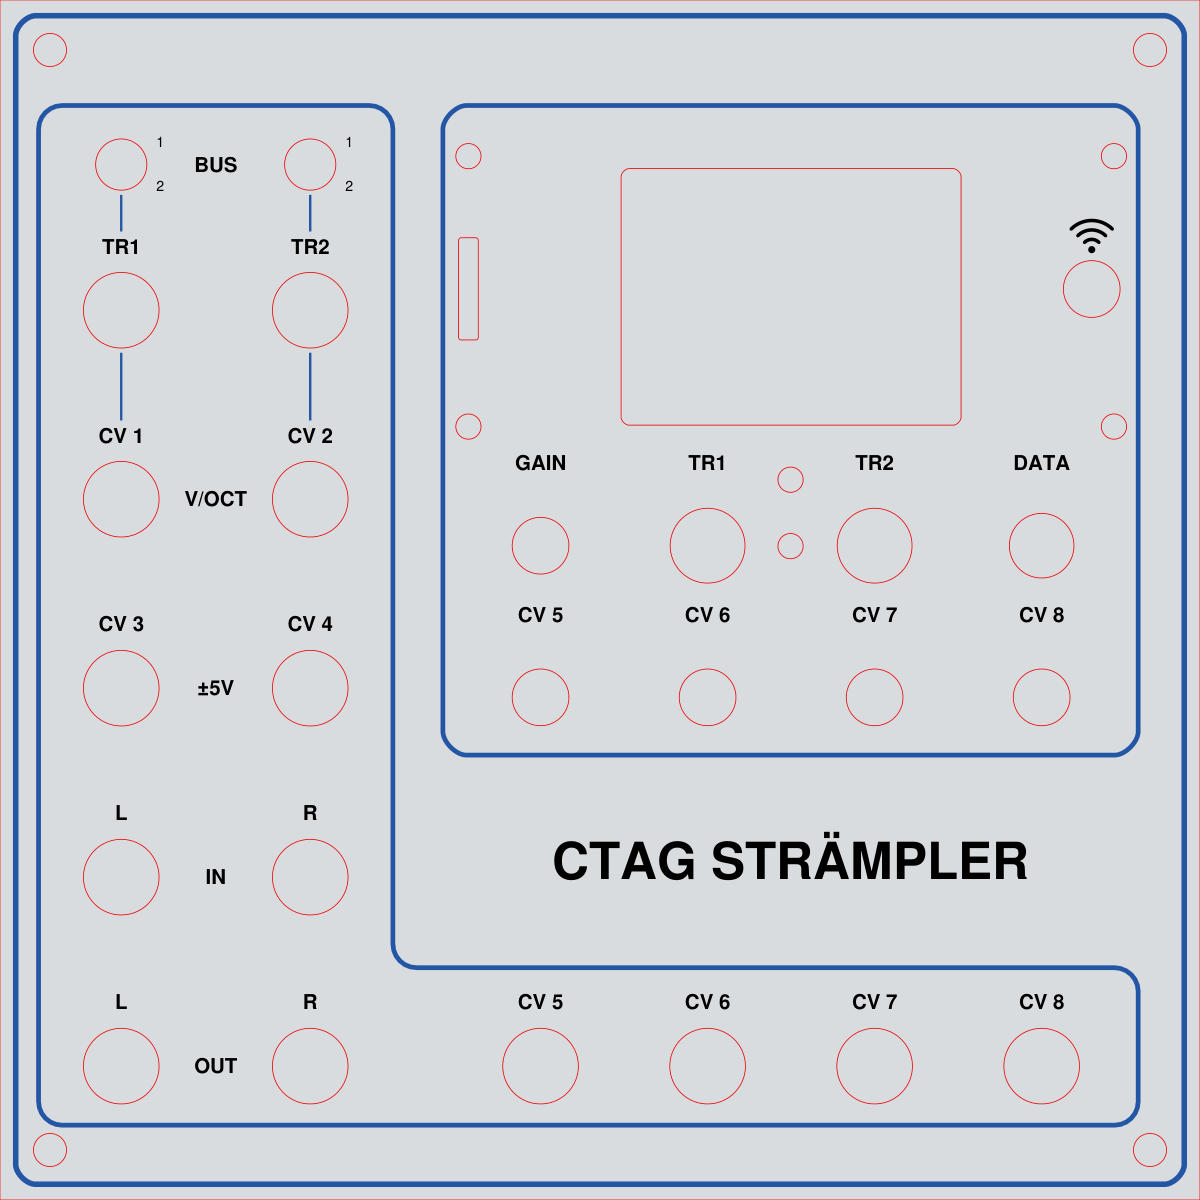
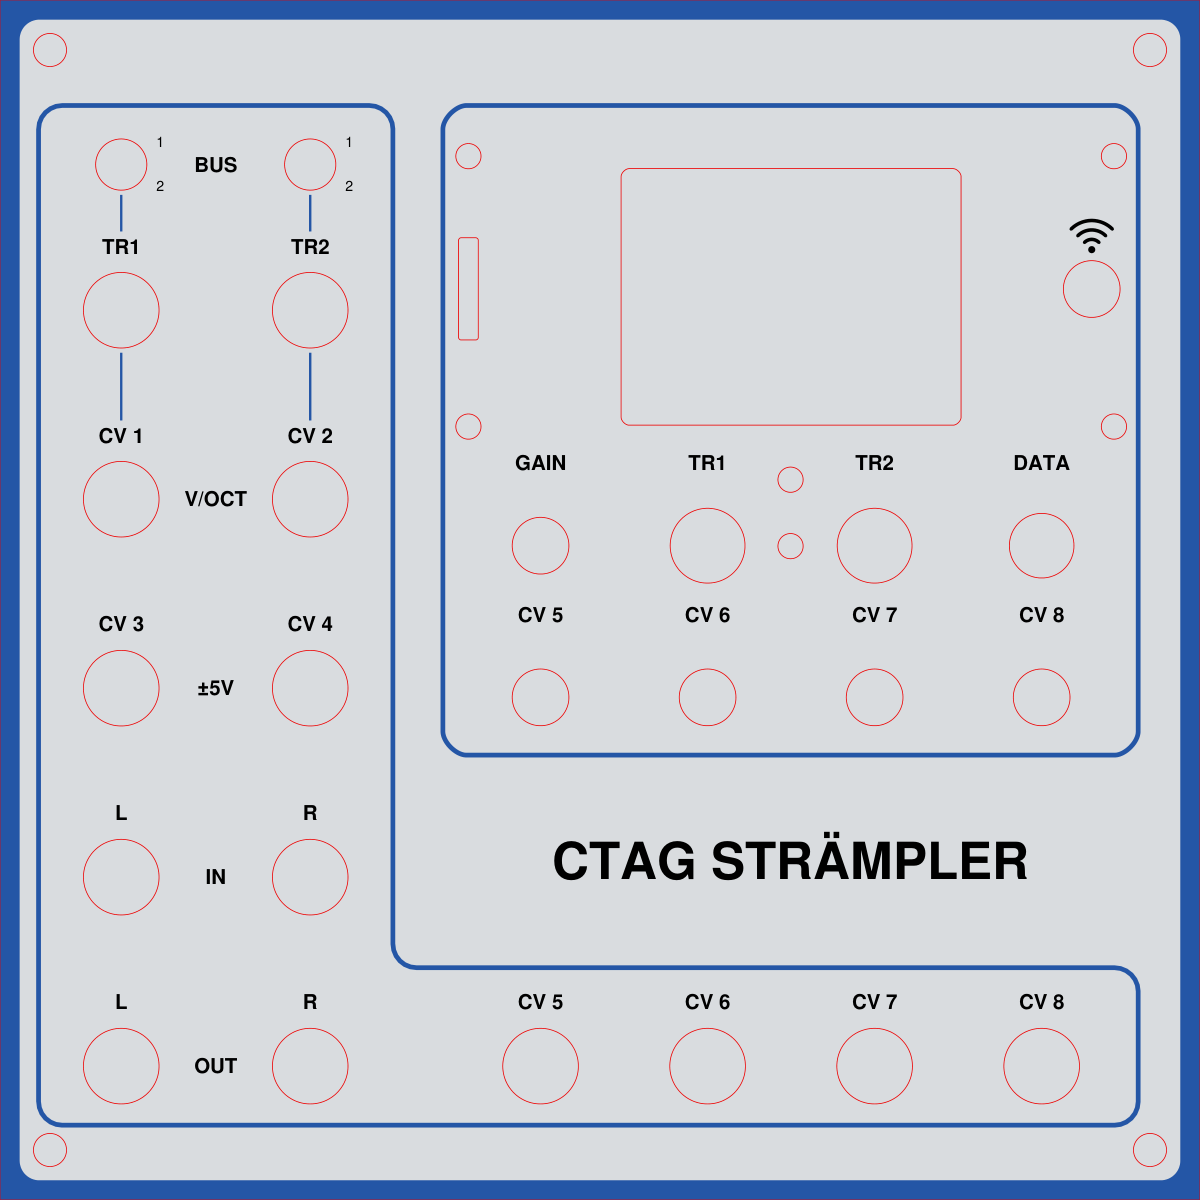
panel-emu: solid blue edge band bleeding to the panel edge
Claude-Session: https://claude.ai/code/session_01KnGMUq9B8Y9jJAKBbBJVhF

Changed region(s): [[0.0, 0.0, 1.0, 1.0]]

diff --git a/panel-emu/gen_emu_panel.py b/panel-emu/gen_emu_panel.py
@@ -206,8 +206,13 @@ fx0, fx1 = JACK_COLS[0] - 10.5, JACK_COLS[1] + 10.5
 fy0, fy1 = JACK_ROW0 - 7.5, by + 121.0   # top aligned with the interface box (padding above the top row)
 bx1, by1 = bx + 89.8, JACK_ROW0 + 12.5   # bottom row box extents (shares the left box's bottom edge)
 art_poly([(fx0, fy0), (bx1, fy0), (bx1, by1), (fx1, by1), (fx1, fy1), (fx0, fy1)], r=3.0)
-EDGE_INSET = 2.0                     # E-mu-style blue border just inside the panel edge (screw heads sit on it at the corners)
-art_box(EDGE_INSET, EDGE_INSET, W - EDGE_INSET, H - EDGE_INSET, r=2.5, w=0.7)
+EDGE_BAND = 2.5                      # E-mu-style solid blue band from the panel edge inward (Arlo 09-07: "bleed to the edge")
+e = EDGE_BAND; rr = 2.5
+art.append(f'<path fill-rule="evenodd" fill="{BLUE}" stroke="none" d="M 0 0 H {W} V {H} H 0 Z '
+           f'M {e+rr:.3f} {Y(H-e):.3f} H {W-e-rr:.3f} A {rr} {rr} 0 0 1 {W-e:.3f} {Y(H-e-rr):.3f} '
+           f'V {Y(e+rr):.3f} A {rr} {rr} 0 0 1 {W-e-rr:.3f} {Y(e):.3f} H {e+rr:.3f} A {rr} {rr} 0 0 1 {e:.3f} {Y(e+rr):.3f} '
+           f'V {Y(H-e-rr):.3f} A {rr} {rr} 0 0 1 {e+rr:.3f} {Y(H-e):.3f} Z"/>')
+dxf_art.append(("rrect", (e, e, W - e, H - e), rr))   # inner boundary of the band; outer boundary = the panel edge (fill/hatch between)
 
 # ------------------------------------------------------------ write SVG
 out = os.path.dirname(os.path.abspath(__file__))

diff --git a/panel-emu/README.md b/panel-emu/README.md
@@ -89,7 +89,9 @@ PCB's bottom edge (the PCB is 108 mm tall inside the 128.5 mm panel
 region, so the board region is raised to y = 18 and the jack row sits at
 y = 17 with ~5 mm nut clearance to the PCB edge). The other ten jacks are
 a 2 × 5 field on the left at 1" pitch — TR1/TR2, CV 1/2, CV 3/4, IN L/R,
-OUT L/R — with OUT sharing the bottom row's height. Blue artwork: an E-mu-style border 2 mm inside the panel edge, a rounded
+OUT L/R — with OUT sharing the bottom row's height. Blue artwork: an E-mu-style solid blue band 2.5 mm wide bleeding off the
+panel edge (the art DXF carries its inner boundary; fill between it and
+the panel outline), a rounded
 box around the interface block, and ONE L-shaped rounded outline joining
 the left jack field to the CV 5–8 row along the bottom (tops of the two
 boxes aligned); wordmark "CTAG STRÄMPLER" alone between. Labels (Arlo 09-07): CV jacks read "CV 1"…"CV 8"; the V/OCT, ±5V, IN and OUT
